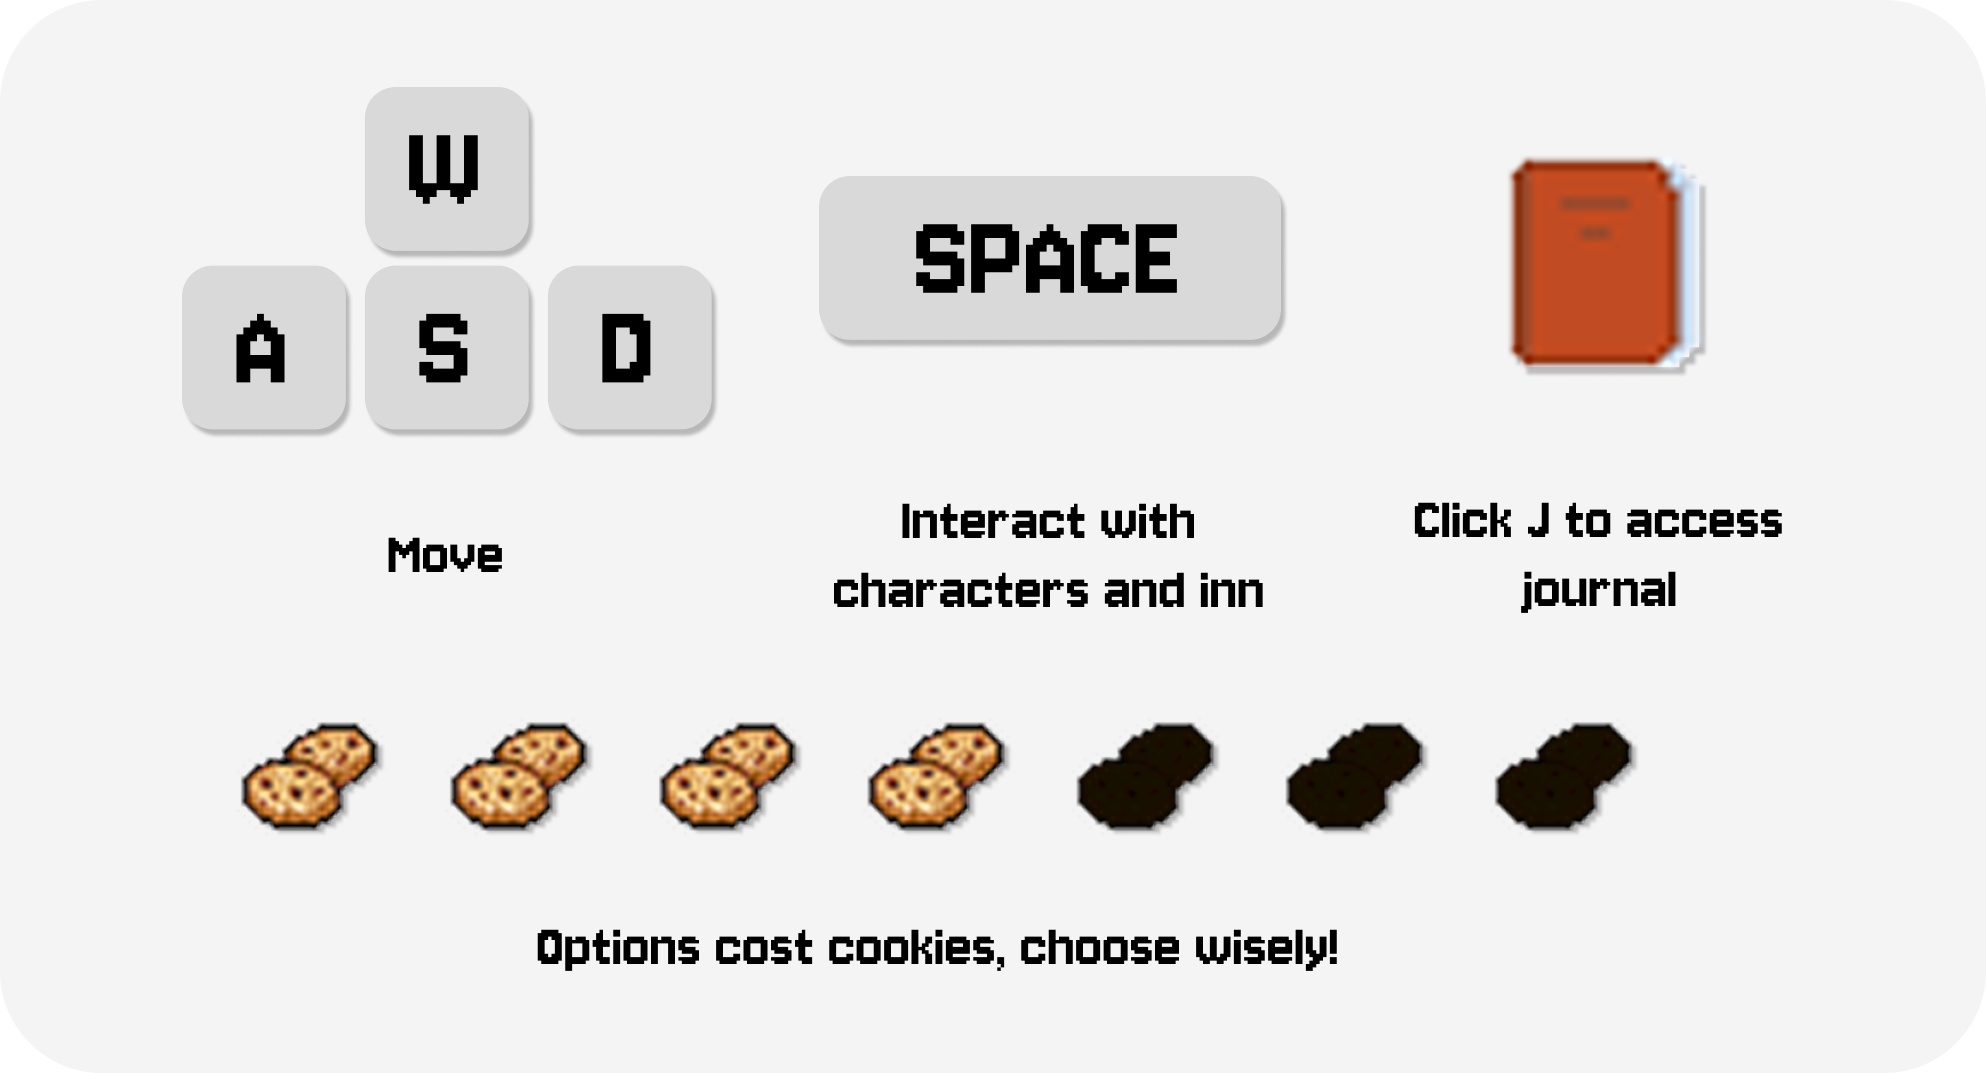
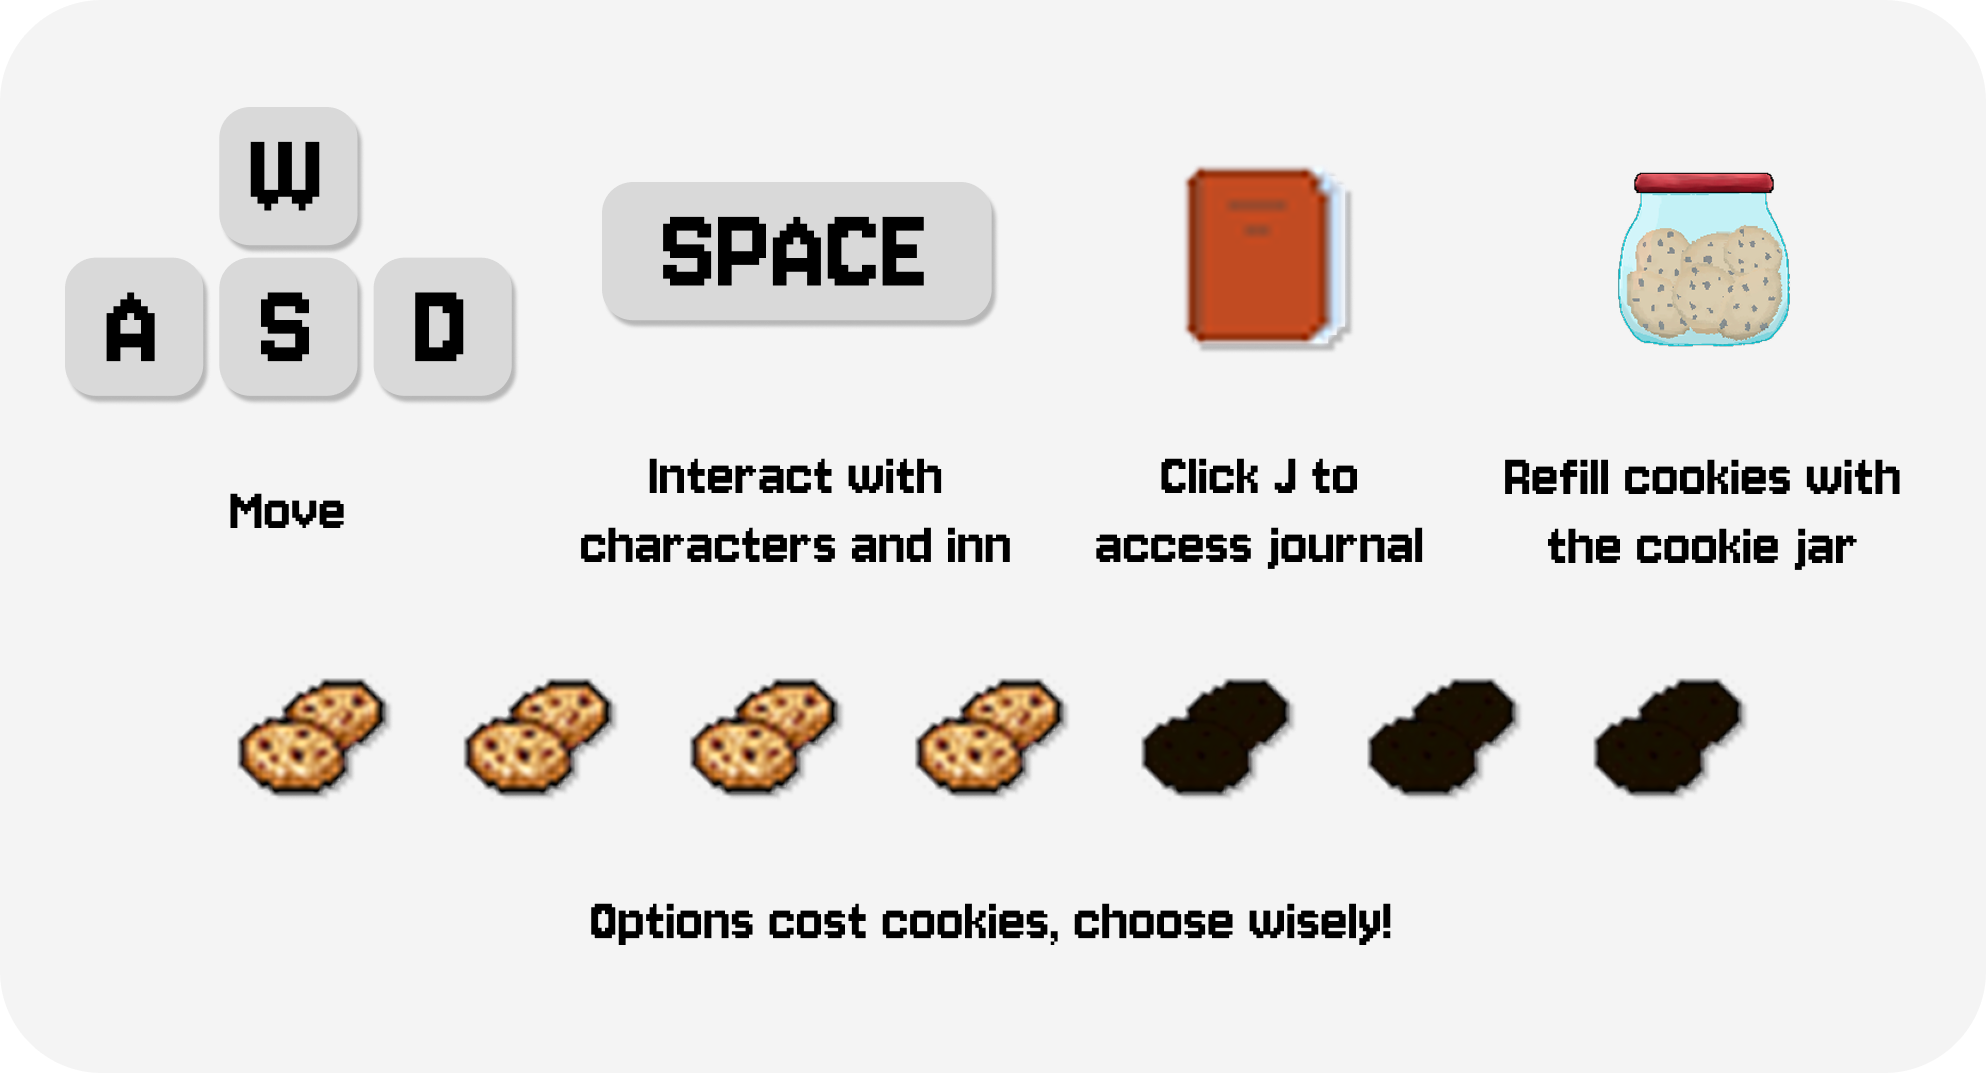
ui and instructions

diff --git a/dialogue.js b/dialogue.js
@@ -204,10 +204,10 @@ function drawDialogue() {
   }
   tickTypewriter();
 
-  let boxW = width * 0.67;
-  let boxH = 681 / 3;
+  let boxW = width * 0.8;
+  let boxH = 681 / 3 - 10;
   let boxX = width * 0.12;
-  let boxY = height - boxH - 20;
+  let boxY = height - boxH - 15;
 
   dialogueBoxBounds = { x: boxX, y: boxY, w: boxW, h: boxH };
 
@@ -331,9 +331,15 @@ function drawDialogueBox(boxX, boxY, boxW, boxH) {
     dialoguePhase === "monologue" || dialoguePhase === "hesitation";
 
   if (useMonologueBox) {
-    image(uiMonologueBox, boxX, boxY, boxW, boxH);
+    stroke("black");
+    strokeWeight(4);
+    fill("purple");
+    rect(boxX, boxY, boxW, boxH, 30);
   } else {
-    image(uiMainBox, boxX, boxY, boxW, boxH);
+    stroke("black");
+    strokeWeight(4);
+    fill("brown");
+    rect(boxX, boxY, boxW, boxH, 30);
   }
 }
 
@@ -393,10 +399,10 @@ function isMouseOver(x, y, w, h) {
 
 function drawOptions() {
   if (!activeNPC) return;
-  const btnW = 320;
-  const btnH = 110;
-  const btnX = width * 0.63;
-  const startY = height * 0.12 + 20;
+  const btnW = 450;
+  const btnH = 90;
+  const btnX = width * 0.63 - 40;
+  const startY = height * 0.12 + 15;
   const gap = btnH + 30;
 
   let visibleIndices = getVisibleOptionIndices();
@@ -408,11 +414,20 @@ function drawOptions() {
     let canAfford = spoonsRemaining >= option.cost;
 
     if (!canAfford) {
-      image(uiBtnDisabled, btnX, btnY, btnW, btnH);
+      stroke("black");
+      strokeWeight(4);
+      fill("grey");
+      rect(btnX, btnY, btnW, btnH, 20);
     } else if (i === selectedOption) {
-      image(uiBtnHover, btnX, btnY, btnW, btnH);
+      stroke("black");
+      strokeWeight(4);
+      fill("orange");
+      rect(btnX, btnY, btnW, btnH, 20);
     } else {
-      image(uiBtnRegular, btnX, btnY, btnW, btnH + 18);
+      stroke("black");
+      strokeWeight(4);
+      fill("red");
+      rect(btnX, btnY, btnW, btnH + 18, 20);
     }
 
     if (i === selectedOption && canAfford) {
@@ -425,9 +440,10 @@ function drawOptions() {
 
     textSize(18);
     textAlign(LEFT, CENTER);
-    text(option.playerLine, btnX + 15, btnY + 10, btnW - 70, btnH - 20);
+    noStroke();
+    text(option.playerLine, btnX + 10, btnY + 5, btnW - 60, btnH - 10);
 
-    let iconSize = 25;
+    let iconSize = 30;
     let iconX = btnX + btnW - iconSize - 8;
     let iconY = btnY + btnH / 2 - iconSize / 2;
     image(spoonImg, iconX, iconY, iconSize, iconSize);
@@ -435,6 +451,7 @@ function drawOptions() {
     fill(i === selectedOption && canAfford ? 255 : 30);
     textAlign(RIGHT, CENTER);
     textSize(18);
+    noStroke();
     text(option.cost, btnX + btnW - iconSize - 12, btnY + btnH / 2);
   }
 }

diff --git a/sketch.js b/sketch.js
@@ -980,11 +980,12 @@ function updateHoverCursor() {
 
   if (dialoguePhase === "choosing" || dialoguePhase === "repeat-choosing") {
     selectedOption = -1;
-    const btnW = 320;
-    const btnH = 110;
-    const btnX = width * 0.63;
-    const startY = height * 0.12 + 20;
+    const btnW = 450;
+    const btnH = 90;
+    const btnX = width * 0.63 - 40;
+    const startY = height * 0.12 + 15;
     const gap = btnH + 30;
+
     const visibleIndices = getVisibleOptionIndices();
     for (let i = 0; i < visibleIndices.length; i++) {
       const btnY = startY + i * gap;
@@ -1333,11 +1334,12 @@ function mousePressed() {
   }
 
   if (dialoguePhase === "choosing" || dialoguePhase === "repeat-choosing") {
-    const btnW = 320;
-    const btnH = 110;
-    const btnX = width * 0.63;
-    const startY = height * 0.12 + 20;
+    const btnW = 450;
+    const btnH = 90;
+    const btnX = width * 0.63 - 40;
+    const startY = height * 0.12 + 15;
     const gap = btnH + 30;
+
     const visibleIndices = getVisibleOptionIndices();
 
     for (let i = 0; i < visibleIndices.length; i++) {
